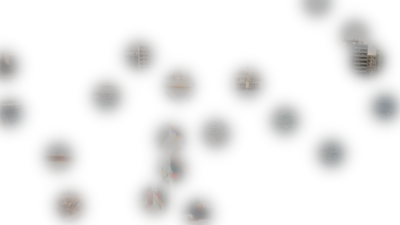
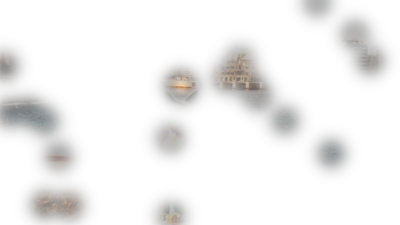
simplify finding nonzero locations and support inf & 0

diff --git a/src/bubblemask/mask.py b/src/bubblemask/mask.py
@@ -69,7 +69,7 @@ def bubbles_conv_mask (im, mu_x=None, mu_y=None, sigma=np.array([5]), bg=0):
     
     return(im_out, mask, mu_x, mu_y, sigma)
 
-def bubbles_mask_nonzero (im, ref_im=None, sigma=np.array([5]), bg=0, ref_bg=0, max_sigma_from_nonzero=np.inf, max_iter=1e5, **kwargs):
+def bubbles_mask_nonzero (im, ref_im=None, sigma=np.array([5]), bg=0, ref_bg=0, max_sigma_from_nonzero=np.inf, **kwargs):
     """Apply the bubbles mask to a given PIL image, restricting the possible locations of the bubbles' centres to be within a given multiple of non-zero pixels. The image will be binarised to be im>ref_bg (or ref_im>ref_bg), so binary dilation can be applied, with a slight buffer (rounded to ceiling). The function then picks random locations, and keeps them if the Euclidean distance from the non-zero values is within the tolerance, otherwise rejecting them. Returns the edited PIL image, the generated mask, mu_y, mu_x, and sigma.
     
      Keyword arguments:
@@ -77,17 +77,18 @@ def bubbles_mask_nonzero (im, ref_im=None, sigma=np.array([5]), bg=0, ref_bg=0, 
     ref_im -- the image to be used as the reference image for finding the minimum (useful for finding the minimum in a pre-distorted im)
     sigma -- array of sigmas for the spread of the bubbles. `n` is inferred from the length of this array
     bg -- value for the background, from 0 to 255. Can also be an array of 3 values from 0 to 255, for RGB
-    max_sigma_from_nonzero -- maximum multiples of the given sigma value from the nearest nonzero values in ref_im that a bubble's centre can be. Can be `np.inf` for no restriction
-    max_iter -- maximum number of random samples to try for mu location, for each sigma
+    max_sigma_from_nonzero -- maximum multiples of the given sigma value from the nearest nonzero values in ref_im that a bubble's centre can be. Can be `np.inf` for no restriction. Can be either one value for all bubbles, or a separate value for each individual bubble. If multiple values are given, then `max_sigma_from_nonzero` must contain the same number of elements as `sigma`.
     **kwargs -- passed to `mask.bubbles_mask` and/or `build.build_mask`, e.g., `scale` and `sum_merge`.
     """
+    sigma = np.array(sigma)
+    max_sigma_from_nonzero = np.array(max_sigma_from_nonzero)
 
     # check that max_sigma_from_nonzero is just one value
-    if np.size(max_sigma_from_nonzero) != 1:
-        ValueError('max_sigma_from_nonzero should be one element')
+    if np.size(max_sigma_from_nonzero) != 1 and np.size(max_sigma_from_nonzero) != np.size(sigma):
+        ValueError('max_sigma_from_nonzero should consist of either one element, or the same number of elements as sigma')
     
     # if no limits, just use bubbles_mask()
-    if np.isposinf(max_sigma_from_nonzero):
+    if np.all(np.isposinf(max_sigma_from_nonzero)):
         return bubbles_mask(im=im, sigma=sigma, bg=bg, **kwargs)
     
     sh = np.asarray(im).shape  # get shape
@@ -102,8 +103,10 @@ def bubbles_mask_nonzero (im, ref_im=None, sigma=np.array([5]), bg=0, ref_bg=0, 
     # get the acceptable mu locations for each sigma value, and store in `sigma_mu_bounds`
     
     # get acceptable boundaries for each sigma
-    sigma_dists = np.array(sigma) * max_sigma_from_nonzero
+    sigma_dists = sigma * max_sigma_from_nonzero
     sigma_dil_iters = np.ceil(sigma_dists).astype(int)
+
+    sigma_dil_iters[np.isposinf(sigma_dists)] = 0  # no iterations for bubbles with infinite max dist, as these are added manually below (if all infinite, will have already done an early return via bubbles_mask())
     
     n_iter = np.max(sigma_dil_iters)
     
@@ -111,7 +114,7 @@ def bubbles_mask_nonzero (im, ref_im=None, sigma=np.array([5]), bg=0, ref_bg=0, 
     max_axis = 1 if ref_im_arr.ndim==2 else 2
     mu_bounds = np.max(ref_im_arr > ref_bg, axis=max_axis)
     
-    # this will contain the maximum mu bounds for each sigma
+    # this will contain the maximum mu bounds for each sigma, initialised with the acceptable values in case any of sigma_dists==0
     sigma_mu_bounds = [None] * len(sigma)
     
     for i in range(n_iter):
@@ -122,6 +125,15 @@ def bubbles_mask_nonzero (im, ref_im=None, sigma=np.array([5]), bg=0, ref_bg=0, 
             for sigma_i in matching_sigma_idx:
                 sigma_mu_bounds[sigma_i] = mu_bounds.copy()
 
+    # if any had infinite distance, all locations will be okay
+    for inf_s_idx in np.where(np.isposinf(sigma_dists))[0]:
+        sigma_mu_bounds[inf_s_idx] = np.zeros(shape=mu_bounds.shape).astype(bool)
+        sigma_mu_bounds[inf_s_idx][:] = True
+
+    # if any had zero distance, the ref_im locations are okay
+    for zero_s_idx in np.where(sigma_dists==0)[0]:
+        sigma_mu_bounds[zero_s_idx] = np.max(ref_im_arr > ref_bg, axis=max_axis)
+
     # get possible mu locations for each sigma
     poss_mu_seeds = [np.where(idx_ok) for idx_ok in sigma_mu_bounds]
 
@@ -129,25 +141,13 @@ def bubbles_mask_nonzero (im, ref_im=None, sigma=np.array([5]), bg=0, ref_bg=0, 
     mu[:] = np.nan
 
     for i in range(len(sigma)):
-        attempt = 0
-        sample_ok = False
+        p = np.random.randint(low=0, high=len(poss_mu_seeds[i][0]), size=1)  # index of the seed sample
+        mu[:, i] = np.array( [poss_mu_seeds[i][0][p], poss_mu_seeds[i][1][p]] ).flatten()  # store the seed location
+        mu[:, i] += np.random.uniform(low=-0.5, high=0.5, size=2)  # add jitter from the seed location, assuming that the pixel indices refer to the centre of the pixels
+        dist_i = np.linalg.norm(mu[:, i] - np.array(poss_mu_seeds[i]).T, axis=1)
 
-        while not sample_ok:
-            attempt += 1
-
-            if attempt > max_iter:
-                RuntimeError('Reached max_iter!')
-
-            p = np.random.randint(low=0, high=len(poss_mu_seeds[i][0]), size=1)  # index of the seed sample
-            mu[:, i] = np.array( [poss_mu_seeds[i][0][p], poss_mu_seeds[i][1][p]] ).flatten()  # store the seed location
-            mu[:, i] += np.random.uniform(low=-0.5, high=0.5, size=2)  # add jitter from the seed location
-            dist_i = np.linalg.norm(mu[:, i] - np.array(poss_mu_seeds[i]).T, axis=1)
-
-            # reject sample if outside of bounds
-            if np.min(dist_i) > sigma_dists[i]:
-                mu[:, i] = np.nan
-            else:
-                sample_ok = True
+        if (np.min(dist_i) - 0.5) > sigma_dists[i]:
+            ValueError('Exceeded max_dist_from_nonzero!')
     
     # build mask
     mu_y = mu[0, :]

diff --git a/examples.py b/examples.py
@@ -82,6 +82,11 @@ plt.imshow(maskacat2)
 plt.colorbar()
 fig.savefig(op.join(out_dir, 'a_cat2_mask.png'), dpi=80, bbox_inches='tight')
 
+# demonstrate that each bubble can have a different max_sigma_from_nonzero value, and that 0 and np.inf are supported
+a_cat3, maskacat3, mu_x, mu_y, sigma = mask.bubbles_mask_nonzero(im=a_cat, ref_im=a_cat_ref, sigma=[25, 10, 5], max_sigma_from_nonzero=[np.inf, 2.75, 0], ref_bg=[0,0,0,255], bg=[0,0,0,255])
+
+a_cat3.save(op.join(out_dir, 'a_cat3.png'))
+
 # %% Example 4 - cat
 
 cat = Image.open(op.join(in_dir, 'cat.png'))

diff --git a/README.md b/README.md
@@ -207,6 +207,20 @@ plt.imshow(maskacat2); plt.colorbar()
 ![](img/post/a_cat2.png)
 ![](img/post/a_cat2_mask.png)
 
+Finally, you can also define per-bubble constraints for `max_sigma_from_nonzero`, and values of `np.inf` and `0` are supported:
+
+```python
+a_cat3, maskacat3, mu_x, mu_y, sigma = mask.bubbles_mask_nonzero(
+    im=a_cat, ref_im=a_cat_ref,
+    sigma = [25, 10, 5],
+    max_sigma_from_nonzero = [np.inf, 2.75, 0],
+    ref_bg=[0,0,0,255], bg=[0,0,0,255])
+
+a_cat3.show()
+```
+
+![](img/post/a_cat3.png)
+
 ## Bubble Merging Method
 
 An advantage of this approach is that bubbles of different sizes can be merged. By default, this implementation averages the bubbles and scales the result to within [0, 1]. An alternative may be to take the sum and apply a threshold of the pre-sum maximum across the bubbles. Similarly, the method scales bubbles by default, so that bubbles of different sigma have equal maxima in their densities, where an alternative would be to leave the bubbles unscaled.
